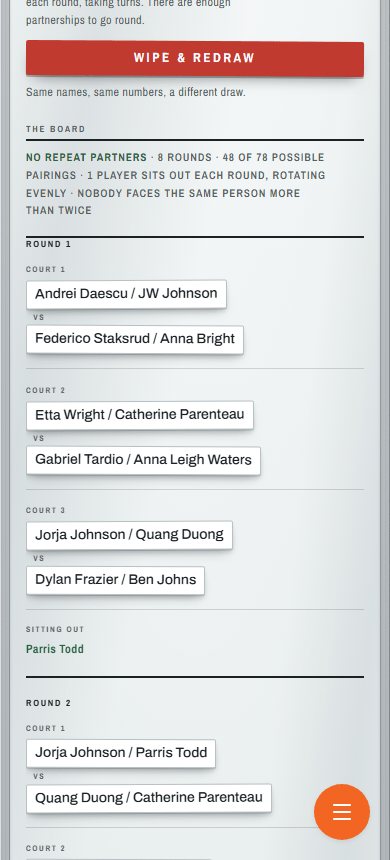
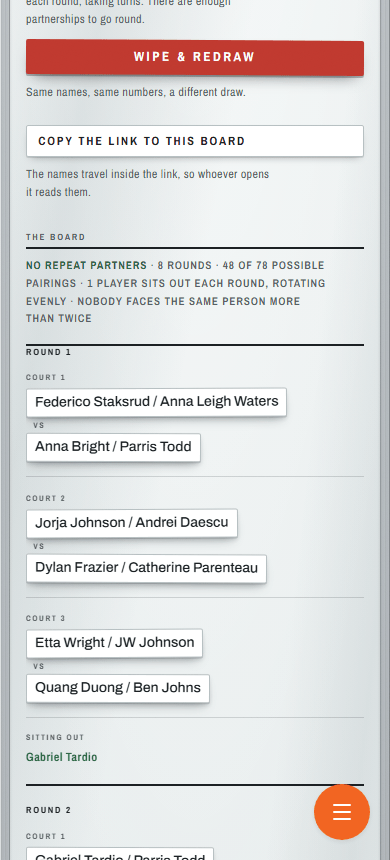
Match Mixer: find-me on a Borrowed board, now that #492 has landed
Rebased onto the Share Link work, which lands the concept this ticket was
written against without being able to name: the case find-me exists for is
a **Borrowed board**, and that is the word for it now. Used in
`config-storage`'s amended claim, in `selection-storage`'s reasoning and in
CONTEXT.md, in place of "a board arrived at by link".

Finding yourself is a reading of the board and not an edit to it, so it
does not claim a Borrowed board: nothing in the selection path touches the
Roster, the numbers or the Seed, which are what `borrowKey` measures the
claim over. Written down in both places, because it is the kind of thing a
later handler would break by accident.

The one criterion that could not be exercised before now can be, and is:
open a link in a browser that has drawn nothing of its own, tap your name,
reload — the selection comes back, and `SavedVisit` is still empty either
side of it. A second, different link shows nobody selected.

Screenshots retaken, so the board in them is the board that now exists,
share control and all.

Claude-Session: https://claude.ai/code/session_018ZqcshgJMCSLyaNeZbKkKt

diff --git a/src/components/apps/match-mixer/lib/persistence/selection-storage.ts b/src/components/apps/match-mixer/lib/persistence/selection-storage.ts
@@ -6,12 +6,16 @@ import type { PlayerIndex } from "../engine/types.ts";
  *
  * Its own key and its own module rather than a field on `SavedVisit`, because
  * the case find-me exists for is the case nothing is written to `SavedVisit`:
- * a board arrived at by link is deliberately not saved, so that reading
- * somebody else's link cannot wipe the Roster a player keeps for their own
- * club night. Put the selection in there and the player who opens a link, taps
- * themselves and pockets the phone is the one person it never comes back for.
- * It would also ride that module's 400ms save debounce and be deleted by its
- * `clear()`, and the selection wants neither.
+ * a Borrowed board is deliberately not saved (#492), so that reading somebody
+ * else's link cannot wipe the Roster a player keeps for their own club night.
+ * Put the selection in there and the player who opens a link, taps themselves
+ * and pockets the phone is the one person it never comes back for. It would
+ * also ride that module's 400ms save debounce and be deleted by its `clear()`,
+ * and the selection wants neither.
+ *
+ * Finding yourself is a reading of the board and not an edit to it, so it does
+ * not claim a Borrowed board either: nothing here touches the Roster, the
+ * numbers or the Seed, which are what the claim is measured over.
  *
  * It holds to the same discipline all the same: a key of its own, a schema
  * marker, an SSR guard, try/catch on both sides, and anything it cannot vouch

diff --git a/src/components/apps/match-mixer/lib/persistence/config-storage.ts b/src/components/apps/match-mixer/lib/persistence/config-storage.ts
@@ -17,10 +17,9 @@ import { isFiniteNumber, isRecord, readChoice, readRoster } from "./read-config.
  *
  * It is no longer the only module in Match Mixer that touches
  * `window.localStorage`: find-me's selection has a key and a module of its own
- * (`selection-storage.ts`, #495). It had to, and deliberately so — a board
- * arrived at by link is never written here, which is exactly the visit whose
- * selection most needs to survive a pocket. See that module for the rest of
- * the reasoning.
+ * (`selection-storage.ts`, #495). It had to, and deliberately so — a Borrowed
+ * board is never written here, which is exactly the visit whose selection most
+ * needs to survive a pocket. See that module for the rest of the reasoning.
  *
  * Two Configs, because the screen can hold two. The edited one is what is in
  * the fields; the drawn one is what produced the sheet on screen. They are

diff --git a/match-mixer/CONTEXT.md b/match-mixer/CONTEXT.md
@@ -87,14 +87,14 @@ One Player's evening pulled out of the Schedule: for every Round, either the cou
 _Avoid_: Card, personal schedule, my games. Not a Mixer, which is a plan being run rather than a plan being read.
 
 **Find-me**:
-Tapping a name to see that Player's Itinerary. The board holds everything not in their evening back, their own name is marked, and the Itinerary says the same thing in words above the grid — the words are the answer and the dimming is decoration on top of them, so it works with no pointer and no sight of the board. Tapping the marked name again puts the whole board back. Available on any board, including one the organizer drew themselves.
+Tapping a name to see that Player's Itinerary. The board holds everything not in their evening back, their own name is marked, and the Itinerary says the same thing in words above the grid — the words are the answer and the dimming is decoration on top of them, so it works with no pointer and no sight of the board. Tapping the marked name again puts the whole board back. Available on any board, including one the organizer drew themselves. Finding yourself is a reading and not an edit, so it does not claim a Borrowed board.
 _Avoid_: Filter, highlight, focus mode, my view
 
 **Selection**:
 Which Roster index find-me is showing, kept in this browser. Always stored against a **board identity** — the Roster, the courts, the Rounds and the Seed together — because an index only means anything against one particular board: index 3 on a board you were sent is a stranger's evening. A stored Selection whose identity does not match the board on screen reads as no Selection, silently, which is also what makes "the organizer sent a second link" behave.
 _Avoid_: Active player, current user (there are no accounts here), pinned name
 
-Selection has a key and a module of its own in the persistence layer (`selection-storage.ts`) rather than a field on the saved Config, so `config-storage.ts` is no longer the only thing in Match Mixer touching `localStorage`. A board arrived at by link is deliberately never written to the saved Config — reading somebody else's link must not wipe the Roster you keep for your own club night — and that is precisely the visit whose Selection most needs to come back after a pocket.
+Selection has a key and a module of its own in the persistence layer (`selection-storage.ts`) rather than a field on the saved Config, so `config-storage.ts` is no longer the only thing in Match Mixer touching `localStorage`. A **Borrowed board** is deliberately never written to the saved Config — reading somebody else's link must not wipe the Roster you keep for your own club night — and that is precisely the visit whose Selection most needs to come back after a pocket.
 
 ### Not built yet
 
